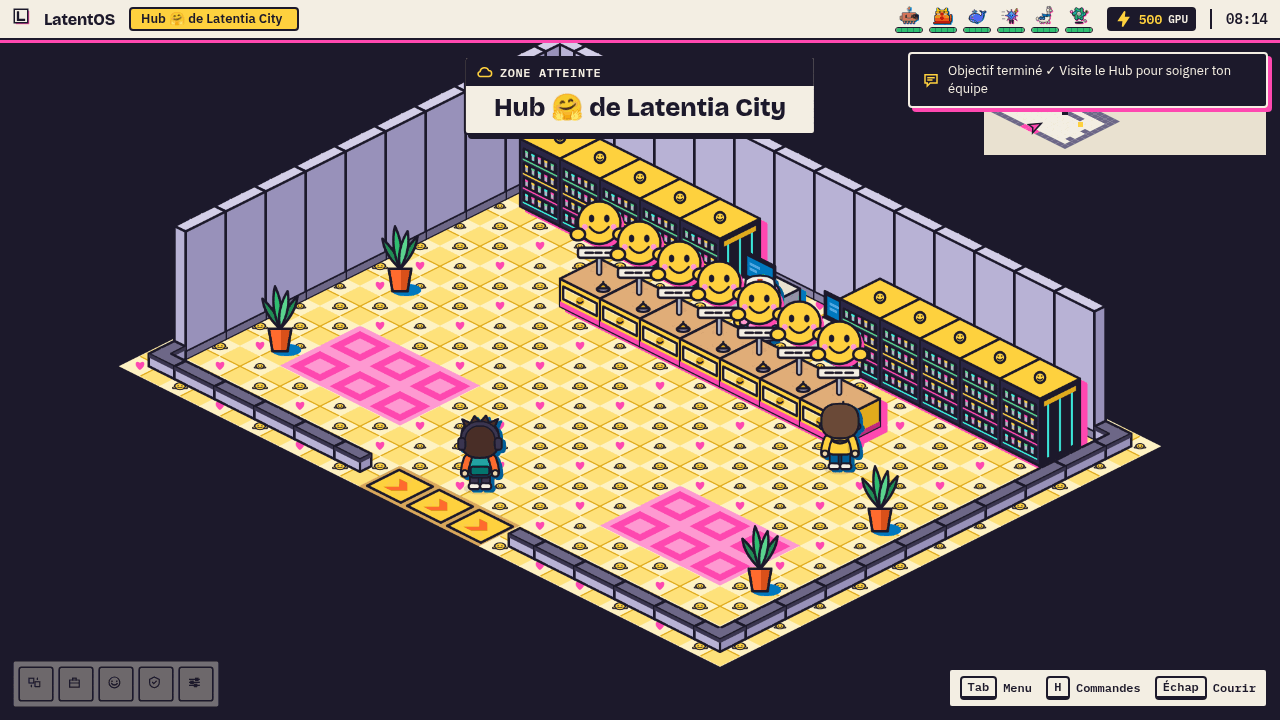
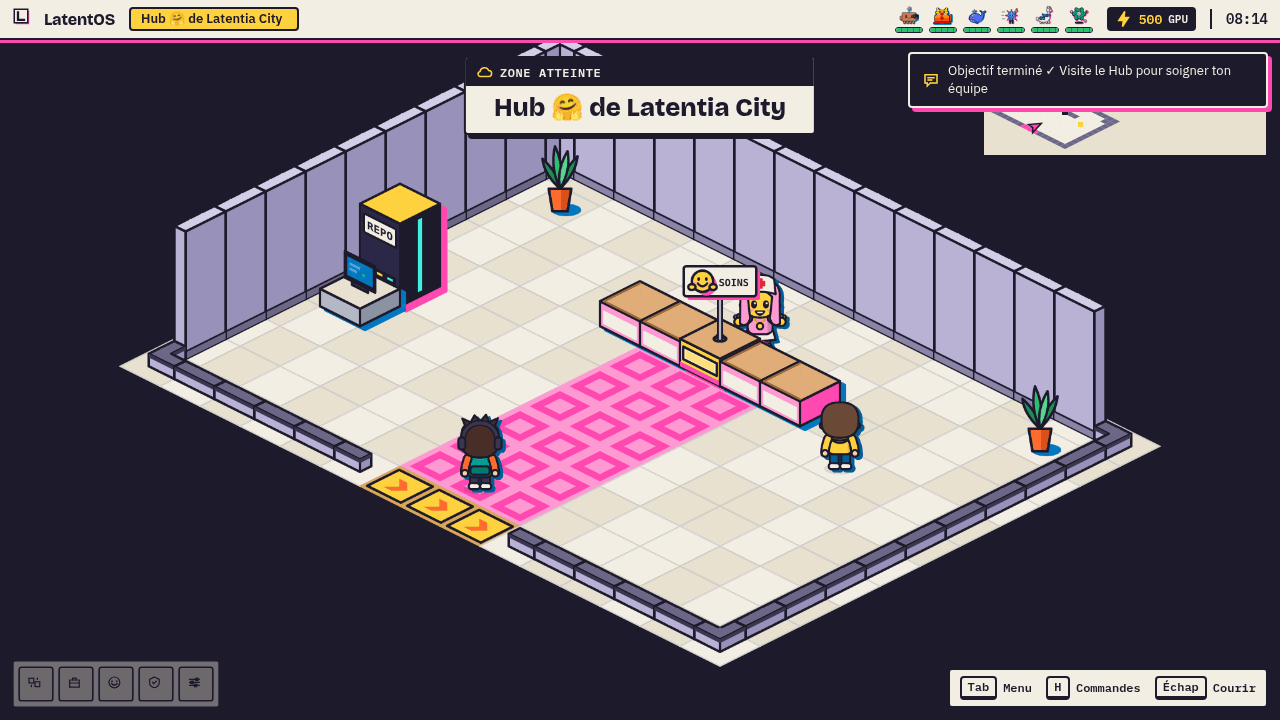
README : captures mises à jour (v0.7)

Changed region(s): [[0.0938, 0.1833, 0.9062, 0.9167], [0.8438, 0.1528, 0.875, 0.1833]]

diff --git a/README.md b/README.md
@@ -66,7 +66,7 @@ Satirique, affectueux, jamais méchant : on se moque des **tics de l'industrie**
     <td><img src="docs/screenshots/model-hub.png" alt="Model Hub (Neurodex)"><br><sub><b>Model Hub</b> : le Neurodex, filtrable par type et par licence.</sub></td>
   </tr>
   <tr>
-    <td><img src="docs/screenshots/hub-interieur.png" alt="Intérieur du Hub"><br><sub><b>Intérieur du Hub</b> : soins, PC et Repo de stockage.</sub></td>
+    <td><img src="docs/screenshots/hub-interieur.png" alt="Intérieur du Hub"><br><sub><b>Intérieur du Hub</b> : un comptoir de soins, le PC du Repo, la sortie. Rien de plus.</sub></td>
     <td><img src="docs/screenshots/creation-perso.png" alt="Création du personnage"><br><sub><b>Création du Vibeur</b> : corps, visage, coiffure, tenue et accessoires.</sub></td>
   </tr>
 </table>
